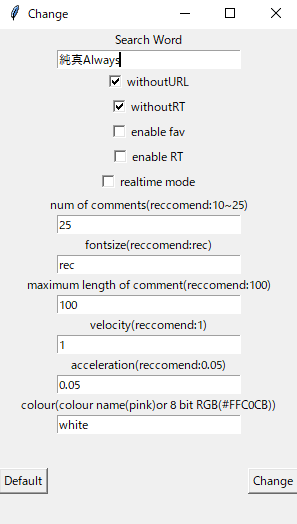
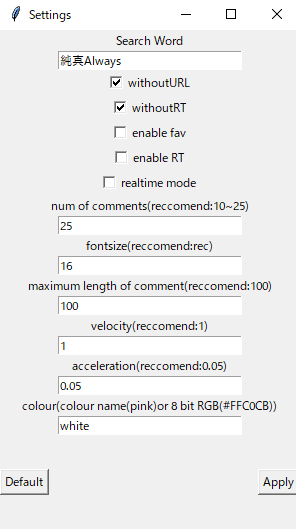
implement tweet mode.

diff --git a/README.md b/README.md
@@ -13,11 +13,12 @@ Win10-64bit
 # 利用方法  
 * https://developer.twitter.com から`consumer_key`,`consumer_secret`,`access_token`,`access_secret`を取得.  
 * Windows環境でJikkyoAlways.exeをダウンロード.なお,信頼できないサイトからDLしたexeファイルを実行する際は"十分"注意してください.  
-* Frameを開いた状態で`Ctrl+w`を押すとGUIによる各種変数の変更可能.  
-
-
+* Frameを開いた状態で`Ctrl+s`を押すとGUIによる各種変数の変更可能.  
+* Frameを開いた状態で`Ctrl+t`を押すとツイート可能.  
+  
 # 機能及び変数紹介  
-![Change.png](https://github.com/T3aHat/JikkyoAlways/blob/master/image/Change.png)
+## `ctrl+s`  
+![Change.png](https://github.com/T3aHat/JikkyoAlways/blob/master/image/Change.png)  
 * `Search Word`  
 Twitterで検索するワードを入力.  
 * `withoutURL`  
@@ -47,9 +48,16 @@ RTを検索から除外する.
 コメントのフォントカラー. http://www.science.smith.edu/dftwiki/index.php/Color_Charts_for_TKinter にある`COLORS`で定義されたcolour name,もしくは`#`に続けて8bitでRGB指定できます.(ex.`red`は`#FF0000`に同じ)  
 * Default  
 各種変数をデフォルトに戻す.
-* Change  
-変数の変更を反映.なお,`fontsize`に"hoge"など型エラーを起こすものを入れるとエラーになる.  
+* Apply  
+変数の変更を適用.なお,`fontsize`に"hoge"など型エラーを起こすものを入れるとエラーになる.  
 そこら辺のデバッグはしていないので,察して使用してください...  
+  
+## `Ctrl+t`  
+![tweet.png](https://github.com/T3aHat/JikkyoAlways/blob/master/image/tweet.png)   
+テキストボックスにツイートしたいテキストを入力して`Tweet`ボタンを押すと，API認証しているアカウントからツイートします.  
+正常にツイートできるとテキストボックスの文字が消えます.失敗した場合はエラーコードがテキストボックスに表示されます.  
+* `append Search Word`  
+オンにすると,上のテキストの次に改行(`\n`)した後に検索ワードを追加してツイートします．ハッシュタグを追っているときに便利.  
  
 
 # 備忘録
